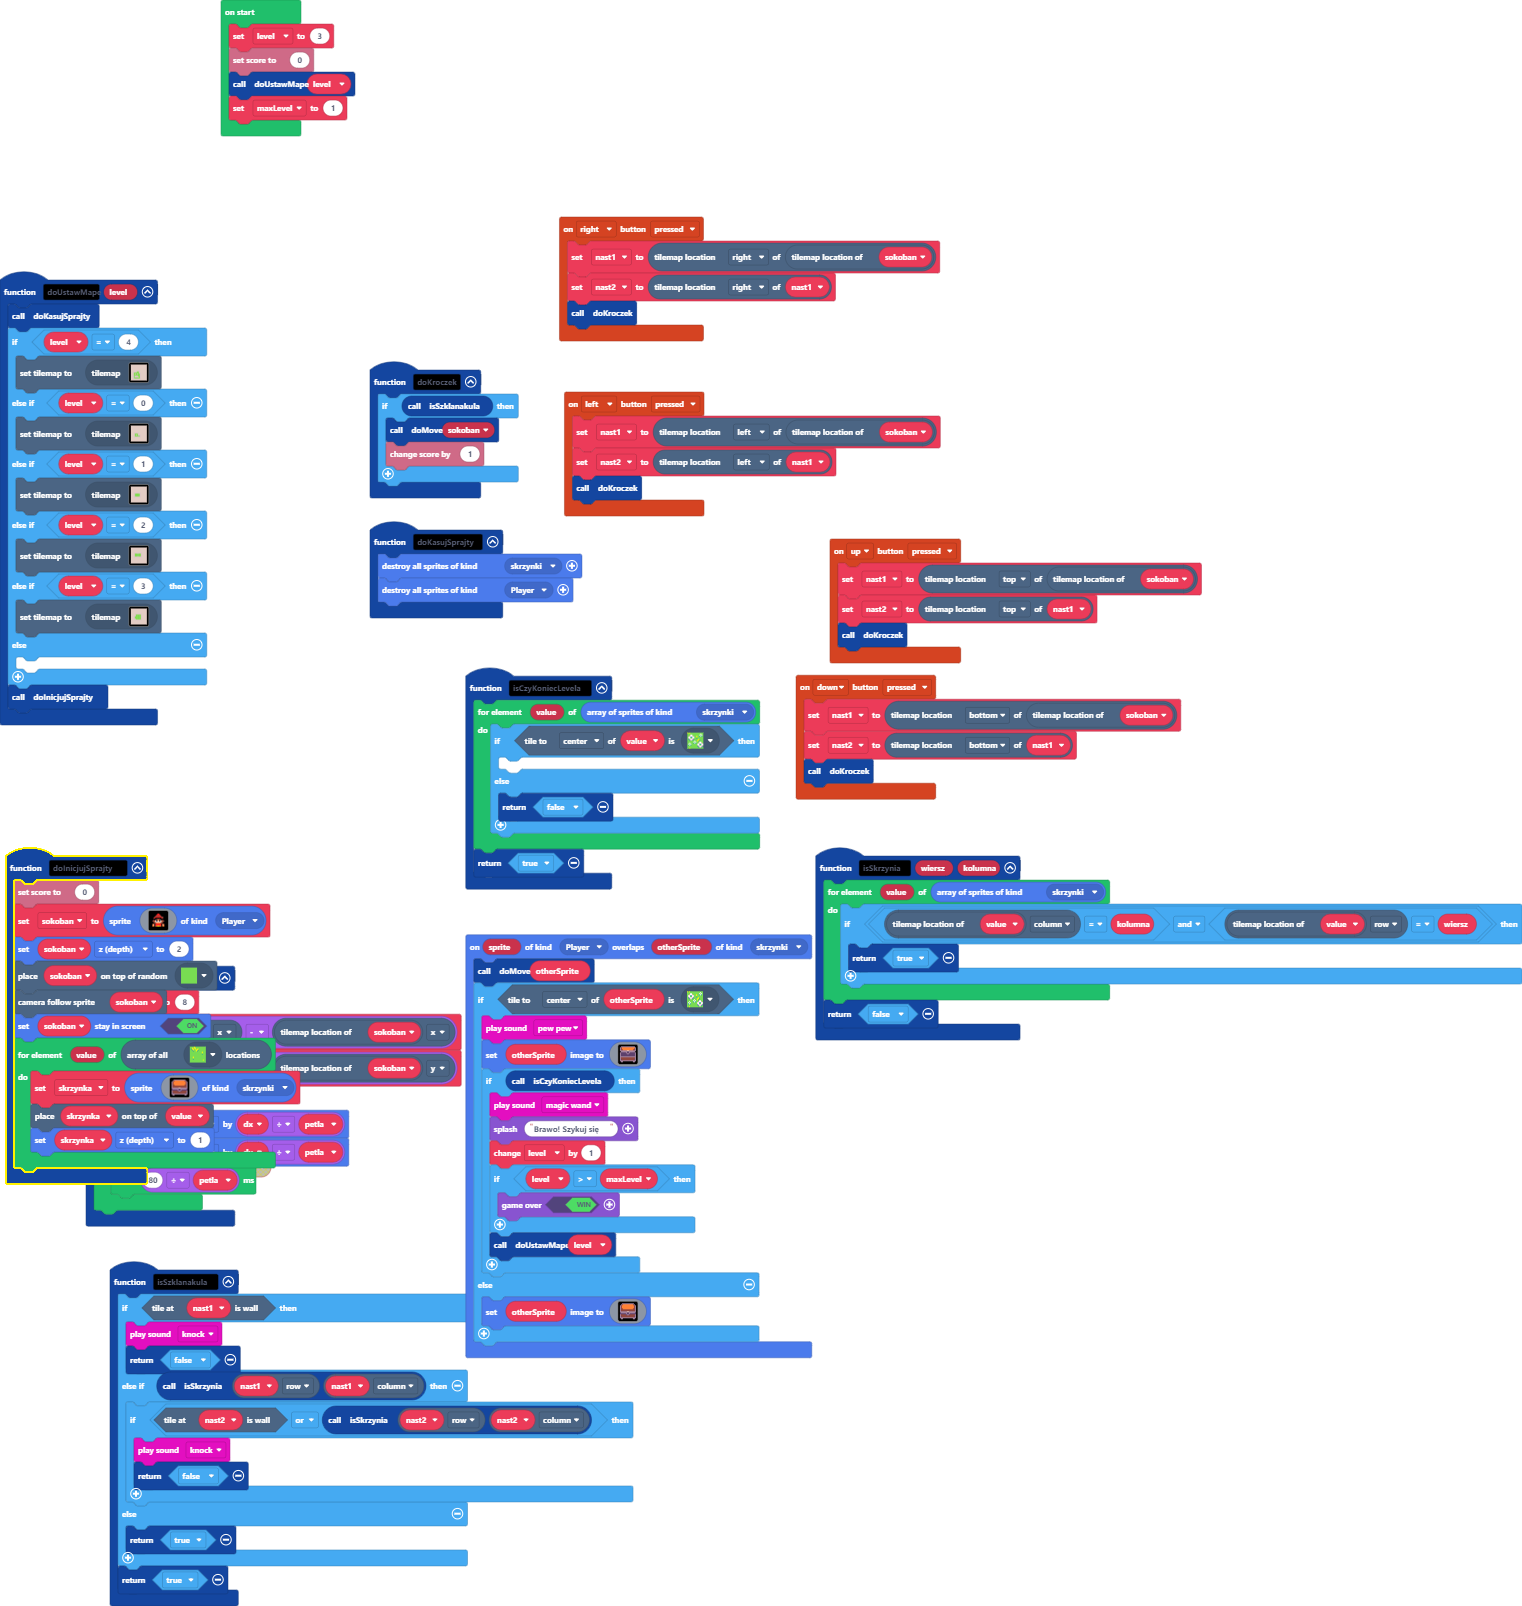
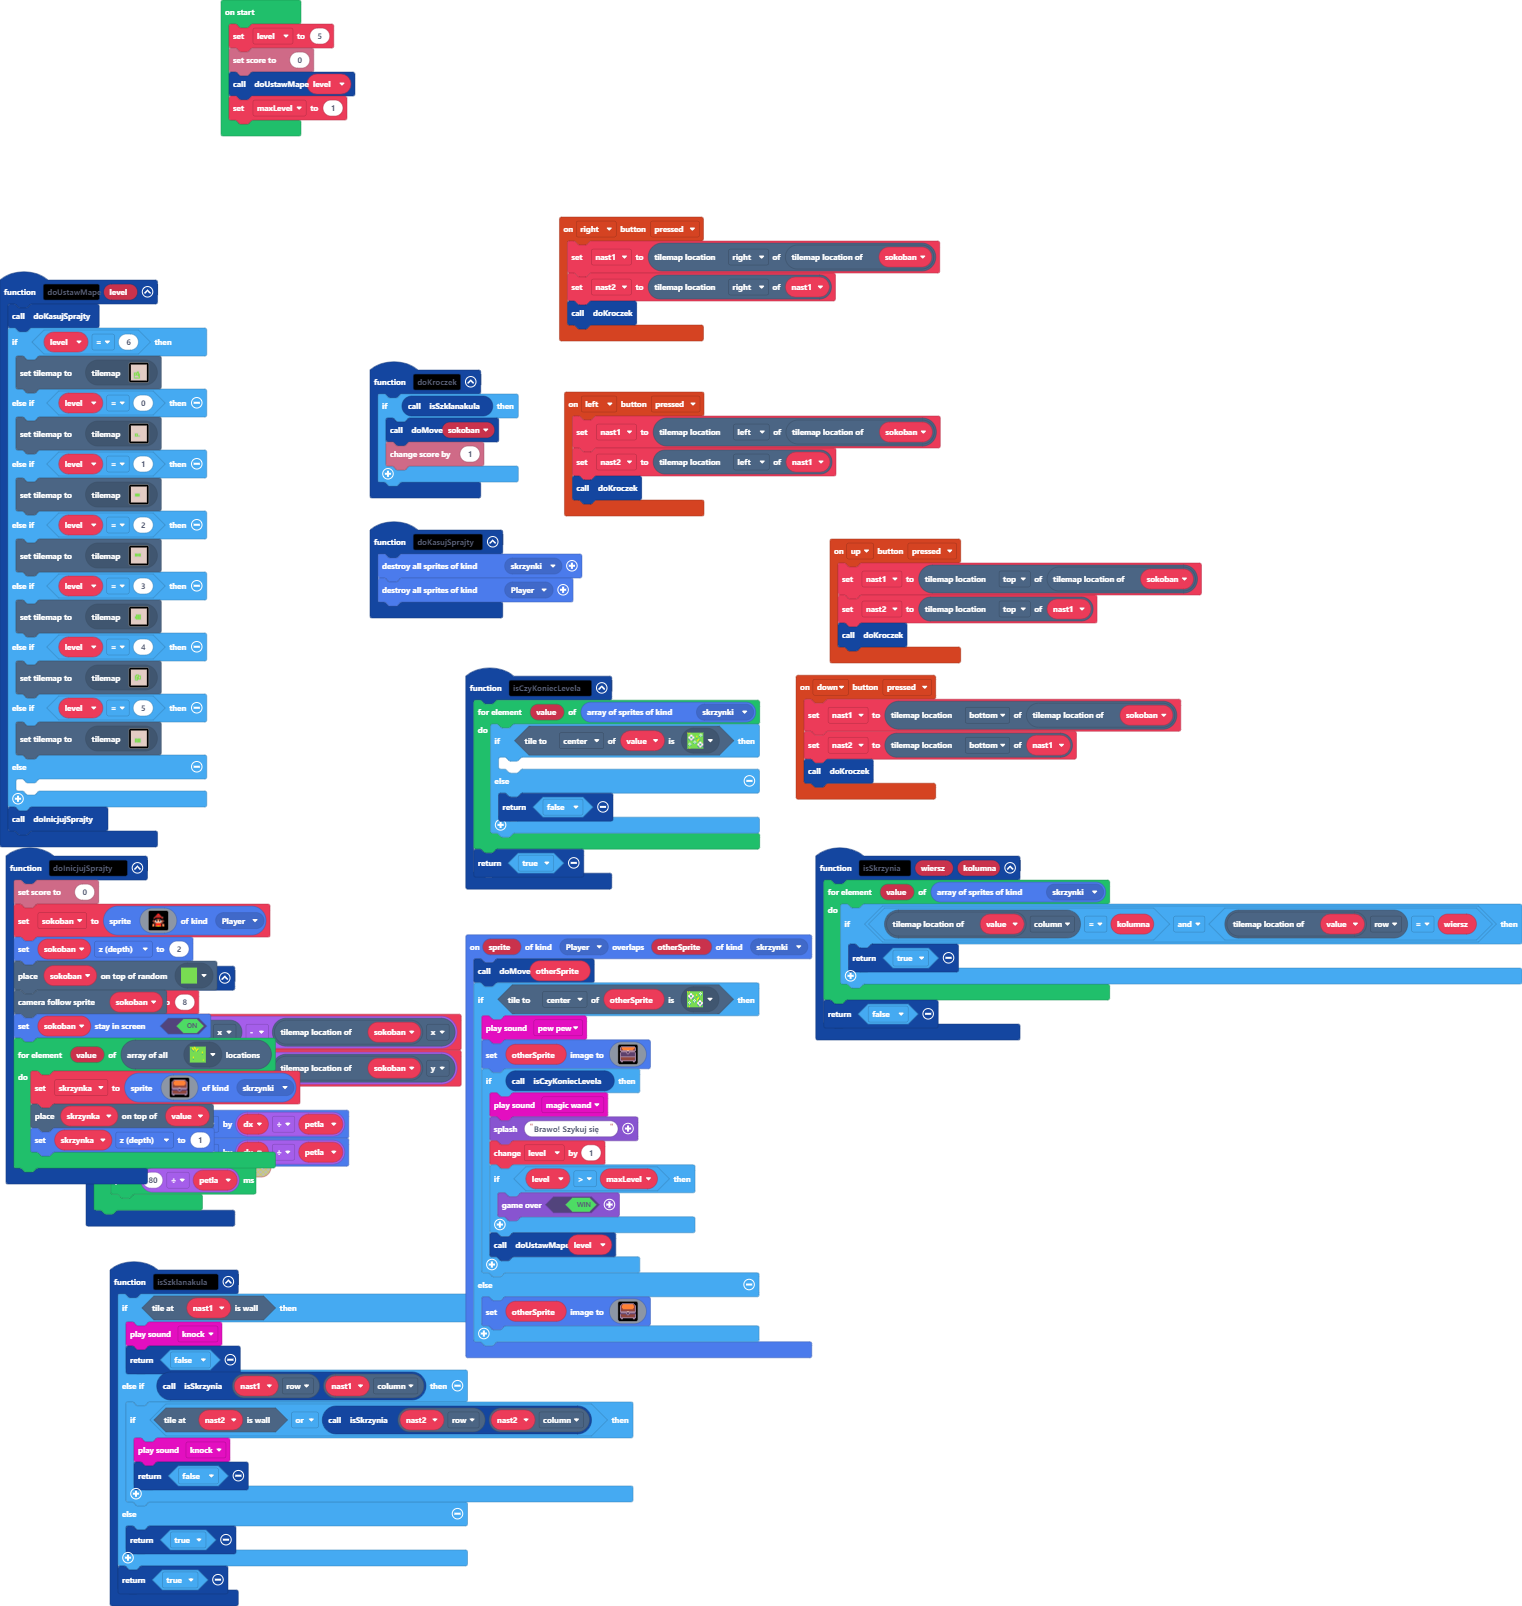
pięć leveli

Changed region(s): [[0.0, 0.3736, 0.1544, 0.5293], [0.0, 0.7161, 0.0309, 0.7472]]

diff --git a/tilemap.g.ts b/tilemap.g.ts
@@ -81,25 +81,6 @@ namespace myTiles {
 . . . . . . . . . . . . . . . . 
 . . . . . . . . . . . . . . . . 
 `, [myTiles.transparency16,sprites.castle.tileGrass2,sprites.dungeon.floorLight0,sprites.castle.tileGrass1,sprites.skillmap.islandTile4,sprites.castle.tileGrass3,sprites.castle.tilePath5], TileScale.Sixteen);
-            case "level8":
-            case "level8":return tiles.createTilemap(hex`1000100000000000000000000000000000000000000000000000000000000000000000000000000000000000000000000000000000000000000000000000000000000000000000000000000000000000000000000000000000000000000000000000000000000000000000000000000000000000000000000000000000000000000000000000000000000000000000000000000000000000000000000000000000000000000000000000000000000000000000000000000000000000000000000000000000000000000000000000000000000000000000000000000000000000000000000000000000000000000000000000000000000000000000000000000000000000`, img`
-. . . . . . . . . . . . . . . . 
-. . . . . . . . . . . . . . . . 
-. . . . . . . . . . . . . . . . 
-. . . . . . . . . . . . . . . . 
-. . . . . . . . . . . . . . . . 
-. . . . . . . . . . . . . . . . 
-. . . . . . . . . . . . . . . . 
-. . . . . . . . . . . . . . . . 
-. . . . . . . . . . . . . . . . 
-. . . . . . . . . . . . . . . . 
-. . . . . . . . . . . . . . . . 
-. . . . . . . . . . . . . . . . 
-. . . . . . . . . . . . . . . . 
-. . . . . . . . . . . . . . . . 
-. . . . . . . . . . . . . . . . 
-. . . . . . . . . . . . . . . . 
-`, [myTiles.transparency16], TileScale.Sixteen);
             case "level7":
             case "level7":return tiles.createTilemap(hex`1000100006060606060606060606060606060606060606060606060606060606060606060606060606060606060606060606060606060606060606060606060606060606060606060606060606060606060606060606060602020202020202060606060606060606020505050505020606060606060606020205010401050206060606060606060203050405040502060606060606060602050501040105020606060606060606020205050505050206060606060606060602020202020202060606060606060606060606060606060606060606060606060606060606060606060606060606060606060606060606060606060606060606060606060606060606060606`, img`
 . . . . . . . . . . . . . . . . 
@@ -119,6 +100,63 @@ namespace myTiles {
 . . . . . . . . . . . . . . . . 
 . . . . . . . . . . . . . . . . 
 `, [myTiles.transparency16,sprites.castle.tileGrass2,sprites.dungeon.floorLight0,sprites.skillmap.islandTile4,sprites.castle.tileGrass1,sprites.castle.tileGrass3,sprites.castle.tilePath5], TileScale.Sixteen);
+            case "level8":
+            case "level8":return tiles.createTilemap(hex`1000100006060606060606060606060606060606060606060606060606060606060606060606060606060606060606060606060606060606060606060606060606060606060606060202020202060606060606060606060202050505020202060606060606060602050502050505020606060606060606020502050502050206060606060606060205040504020502060606060606060602010205050505020606060606060606020105030202020206060606060606060202020202060606060606060606060606060606060606060606060606060606060606060606060606060606060606060606060606060606060606060606060606060606060606060606060606`, img`
+. . . . . . . . . . . . . . . . 
+. . . . . . . . . . . . . . . . 
+. . . . . . . . . . . . . . . . 
+. . . . . . . . . . . . . . . . 
+. . . . 2 2 2 2 2 . . . . . . . 
+. . . 2 2 . . . 2 2 2 . . . . . 
+. . . 2 . . 2 . . . 2 . . . . . 
+. . . 2 . 2 . . 2 . 2 . . . . . 
+. . . 2 . . . . 2 . 2 . . . . . 
+. . . 2 . 2 . . . . 2 . . . . . 
+. . . 2 . . . 2 2 2 2 . . . . . 
+. . . 2 2 2 2 2 . . . . . . . . 
+. . . . . . . . . . . . . . . . 
+. . . . . . . . . . . . . . . . 
+. . . . . . . . . . . . . . . . 
+. . . . . . . . . . . . . . . . 
+`, [myTiles.transparency16,sprites.castle.tileGrass2,sprites.dungeon.floorLight0,sprites.skillmap.islandTile4,sprites.castle.tileGrass1,sprites.castle.tileGrass3,sprites.castle.tilePath5], TileScale.Sixteen);
+            case "level10":
+            case "level10":return tiles.createTilemap(hex`1000100000000000000000000000000000000000000000000000000000000000000000000000000000000000000000000000000000000000000000000000000000000000000000000000000000000000000000000000000000000000000000000000000000000000000000000000000000000000000000000000000000000000000000000000000000000000000000000000000000000000000000000000000000000000000000000000000000000000000000000000000000000000000000000000000000000000000000000000000000000000000000000000000000000000000000000000000000000000000000000000000000000000000000000000000000000000`, img`
+. . . . . . . . . . . . . . . . 
+. . . . . . . . . . . . . . . . 
+. . . . . . . . . . . . . . . . 
+. . . . . . . . . . . . . . . . 
+. . . . . . . . . . . . . . . . 
+. . . . . . . . . . . . . . . . 
+. . . . . . . . . . . . . . . . 
+. . . . . . . . . . . . . . . . 
+. . . . . . . . . . . . . . . . 
+. . . . . . . . . . . . . . . . 
+. . . . . . . . . . . . . . . . 
+. . . . . . . . . . . . . . . . 
+. . . . . . . . . . . . . . . . 
+. . . . . . . . . . . . . . . . 
+. . . . . . . . . . . . . . . . 
+. . . . . . . . . . . . . . . . 
+`, [myTiles.transparency16], TileScale.Sixteen);
+            case "level9":
+            case "level9":return tiles.createTilemap(hex`1000100006060606060606060606060606060606060606060606060606060606060606060606060606060606060606060606060606060606060606060606060606060606060606060606060606060606060606060606060606060606060606060606060606060606060606060606060606060606060606020202020202020206060606060606060205030105030102060606060606060602040103050301020606060606060606020503010503010206060606060606060205010305030102060606060606060602020202020202020606060606060606060606060606060606060606060606060606060606060606060606060606060606060606060606060606060606`, img`
+. . . . . . . . . . . . . . . . 
+. . . . . . . . . . . . . . . . 
+. . . . . . . . . . . . . . . . 
+. . . . . . . . . . . . . . . . 
+. . . . . . . . . . . . . . . . 
+. . . . . . . . . . . . . . . . 
+. . . . . . . . . . . . . . . . 
+. . . 2 2 2 2 2 2 2 2 . . . . . 
+. . . 2 . . . . . . 2 . . . . . 
+. . . 2 . . . . . . 2 . . . . . 
+. . . 2 . . . . . . 2 . . . . . 
+. . . 2 . . . . . . 2 . . . . . 
+. . . 2 2 2 2 2 2 2 2 . . . . . 
+. . . . . . . . . . . . . . . . 
+. . . . . . . . . . . . . . . . 
+. . . . . . . . . . . . . . . . 
+`, [myTiles.transparency16,sprites.castle.tileGrass2,sprites.dungeon.floorLight0,sprites.castle.tileGrass1,sprites.skillmap.islandTile4,sprites.castle.tileGrass3,sprites.castle.tilePath5], TileScale.Sixteen);
         }
         return null;
     })

diff --git a/main.ts b/main.ts
@@ -22,7 +22,7 @@ function doKasujSprajty () {
 }
 function doUstawMape (level: number) {
     doKasujSprajty()
-    if (level == 4) {
+    if (level == 6) {
         tiles.setCurrentTilemap(tilemap`level0`)
     } else if (level == 0) {
         tiles.setCurrentTilemap(tilemap`level4`)
@@ -32,6 +32,10 @@ function doUstawMape (level: number) {
         tiles.setCurrentTilemap(tilemap`level`)
     } else if (level == 3) {
         tiles.setCurrentTilemap(tilemap`level7`)
+    } else if (level == 4) {
+        tiles.setCurrentTilemap(tilemap`level8`)
+    } else if (level == 5) {
+        tiles.setCurrentTilemap(tilemap`level9`)
     } else {
     	
     }
@@ -198,7 +202,7 @@ let sokoban: Sprite = null
 let nast1: tiles.Location = null
 let maxLevel = 0
 let level = 0
-level = 3
+level = 5
 info.setScore(0)
 doUstawMape(level)
 maxLevel = 1
